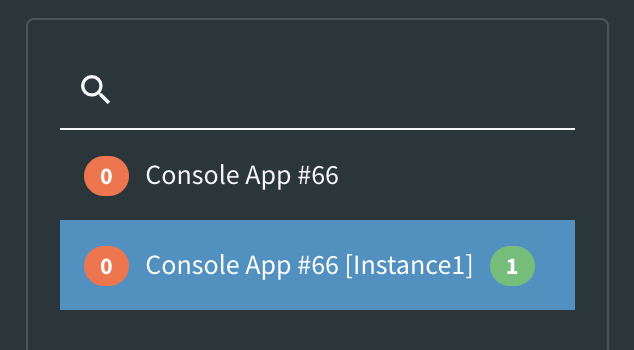
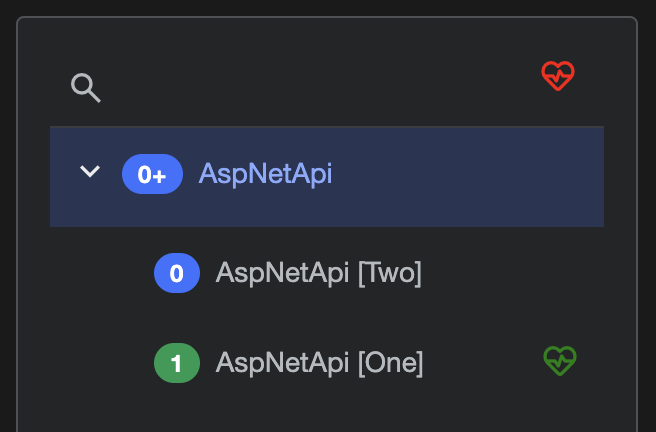
Improve the display of client instances within the client list by nesting them under the base setting and allowing them to be expanded.

diff --git a/src/web/Fig.Web/Pages/Setting/Settings.razor.cs b/src/web/Fig.Web/Pages/Setting/Settings.razor.cs
@@ -38,6 +38,11 @@ public partial class Settings : ComponentBase, IAsyncDisposable
     // Floating toolbar state
     private ElementReference _toolbarRef;
     private bool _isToolbarFloating;
+    
+    // Collapsible instances state
+    private readonly HashSet<string> _expandedClientNames = new();
+    private string? _listFilterText;
+
     private double _toolbarOffsetTop;
     private IJSObjectReference? _scrollModule;
     
@@ -83,6 +88,12 @@ public partial class Settings : ComponentBase, IAsyncDisposable
             ClearSettingFilter();
             ClearShowDifferencesFromBase();
             SettingClientFacade.SelectedSettingClient = value;
+            
+            // Ensure instances are visible when selected by expanding their base
+            if (value?.Instance != null)
+            {
+                _expandedClientNames.Add(value.Name);
+            }
             if (!string.IsNullOrWhiteSpace(_currentFilter) && SelectedSettingClient is not null)
             {
                 _searchedSetting = SelectedSettingClient.GetFilterSettingMatch(_currentFilter);
@@ -92,6 +103,65 @@ public partial class Settings : ComponentBase, IAsyncDisposable
                 _searchedSetting = null;
             }
             FilterSettings();
+        }
+    }
+    
+    // Computed list for the left panel with instances collapsed by default
+    private List<SettingClientConfigurationModel> VisibleSettingClients
+    {
+        get
+        {
+            var results = new List<SettingClientConfigurationModel>();
+            if (SettingClients == null || SettingClients.Count == 0)
+                return results;
+
+            // We preserve existing order while grouping instances under their base
+            var seenBases = new HashSet<string>(StringComparer.OrdinalIgnoreCase);
+            foreach (var item in SettingClients)
+            {
+                // Skip instances here; they'll be added under their base
+                if (item is { Instance: not null, IsGroup: false })
+                    continue;
+
+                // Add groups as-is
+                if (item.IsGroup)
+                {
+                    if (IsNameMatch(item))
+                        results.Add(item);
+                    continue;
+                }
+
+                // Base client (Instance == null)
+                if (!seenBases.Add(item.Name))
+                    continue;
+
+                // Determine if this base or any of its instances match the filter
+                var hasMatchingInstance = false;
+                var instances = SettingClients.Where(i => i.Name == item.Name && i.Instance != null).ToList();
+                if (!string.IsNullOrWhiteSpace(_listFilterText))
+                {
+                    hasMatchingInstance = instances.Any(IsNameMatch);
+                }
+
+                // Add base if it matches or any instance matches, or no filter
+                if (IsNameMatch(item) || hasMatchingInstance || string.IsNullOrWhiteSpace(_listFilterText))
+                {
+                    results.Add(item);
+                }
+
+                // Decide if instances should be shown: expanded state OR filter reveals matching instances
+                var showInstances = IsClientExpanded(item.Name) || (!string.IsNullOrWhiteSpace(_listFilterText) && hasMatchingInstance);
+                if (showInstances)
+                {
+                    foreach (var inst in instances)
+                    {
+                        if (string.IsNullOrWhiteSpace(_listFilterText) || IsNameMatch(inst))
+                            results.Add(inst);
+                    }
+                }
+            }
+
+            return results;
         }
     }
 
@@ -355,16 +425,7 @@ public partial class Settings : ComponentBase, IAsyncDisposable
 
     private async Task OnFilter(LoadDataArgs args)
     {
-        if (!string.IsNullOrEmpty(args.Filter))
-        {
-            var filter = args.Filter.ToLowerInvariant();
-            FilteredSettingClients = SettingClients.Where(a => a.Name.ToLowerInvariant().Contains(filter)).ToList();
-        }
-        else
-        {
-            FilteredSettingClients = SettingClients;
-        }
-
+        _listFilterText = args.Filter;
         _currentFilter = args.Filter;
 
         await InvokeAsync(StateHasChanged);
@@ -759,5 +820,106 @@ public partial class Settings : ComponentBase, IAsyncDisposable
         }
         
         return referencedSettings;
+    }
+    
+    private bool IsClientExpanded(string clientName)
+    {
+        return _expandedClientNames.Contains(clientName);
+    }
+
+    private void ToggleClientExpand(string clientName)
+    {
+        if (!_expandedClientNames.Add(clientName))
+            _expandedClientNames.Remove(clientName);
+
+        InvokeAsync(StateHasChanged);
+    }
+
+    private int GetInstanceCount(SettingClientConfigurationModel baseClient)
+    {
+        if (baseClient == null)
+            return 0;
+
+        return SettingClients.Count(c => c is { IsGroup: false, Instance: not null }
+                                         && c.Name == baseClient.Name);
+    }
+
+    private bool IsNameMatch(SettingClientConfigurationModel model)
+    {
+        if (string.IsNullOrWhiteSpace(_listFilterText))
+            return true;
+        
+        var filter = _listFilterText.Trim();
+        return (model.DisplayName ?? model.Name).Contains(filter, StringComparison.OrdinalIgnoreCase);
+    }
+
+    private string GetItemIndent(SettingClientConfigurationModel model)
+    {
+        // Slight indent for instances to show hierarchy
+        return model.Instance != null ? "margin-left: 16px;" : string.Empty;
+    }
+    
+    private string GetRunSessionsBadgeText(SettingClientConfigurationModel model)
+    {
+        // Only relevant for base clients
+        if (model.Instance != null || model.IsGroup)
+            return model.CurrentRunSessions.ToString();
+        
+        // Find instances of this client
+        var instances = SettingClients.Where(c => c is
+                                                  {
+                                                      IsGroup: false,
+                                                      Instance: not null
+                                                  } &&
+                                                  c.Name == model.Name)
+            .ToList();
+        if (instances.Count == 0)
+            return model.CurrentRunSessions.ToString();
+
+        // If any instances have running sessions, append '+' to indicate more running beyond base
+        var instanceRunSessions = instances.Sum(i => i.CurrentRunSessions);
+        if (instanceRunSessions > 0)
+            return $"{model.CurrentRunSessions}+";
+
+        // No running instance sessions, show base count only
+        return model.CurrentRunSessions.ToString();
+    }
+
+    private string GetRunSessionsTooltipText(SettingClientConfigurationModel model)
+    {
+        // For instances/groups, keep the original semantics
+        if (model.IsGroup || model.Instance != null)
+        {
+            if (model.CurrentRunSessions == 0)
+                return "No currently running clients";
+            return model.AllRunSessionsRunningLatest
+                ? $"{model.CurrentRunSessions} currently running client(s), all running latest settings"
+                : $"{model.CurrentRunSessions} currently running client(s), some with stale settings";
+        }
+
+        // Base client: include instance information if present
+        var instances = SettingClients.Where(c => c is
+                                                  {
+                                                      IsGroup: false,
+                                                      Instance: not null
+                                                  } &&
+                                                  c.Name == model.Name)
+            .ToList();
+        var instanceRunSessions = instances.Sum(i => i.CurrentRunSessions);
+
+        if (model.CurrentRunSessions == 0)
+        {
+            if (instanceRunSessions > 0)
+                return $"No currently running clients for base settings. {instanceRunSessions} running with different instance settings.";
+            return "No currently running clients";
+        }
+
+        var basePart = model.AllRunSessionsRunningLatest
+            ? $"{model.CurrentRunSessions} currently running client(s), all running latest settings for base settings"
+            : $"{model.CurrentRunSessions} currently running client(s), some with stale settings for base settings";
+
+        if (instanceRunSessions > 0)
+            return basePart + $". {instanceRunSessions} running with different instance settings.";
+        return basePart;
     }
 }
